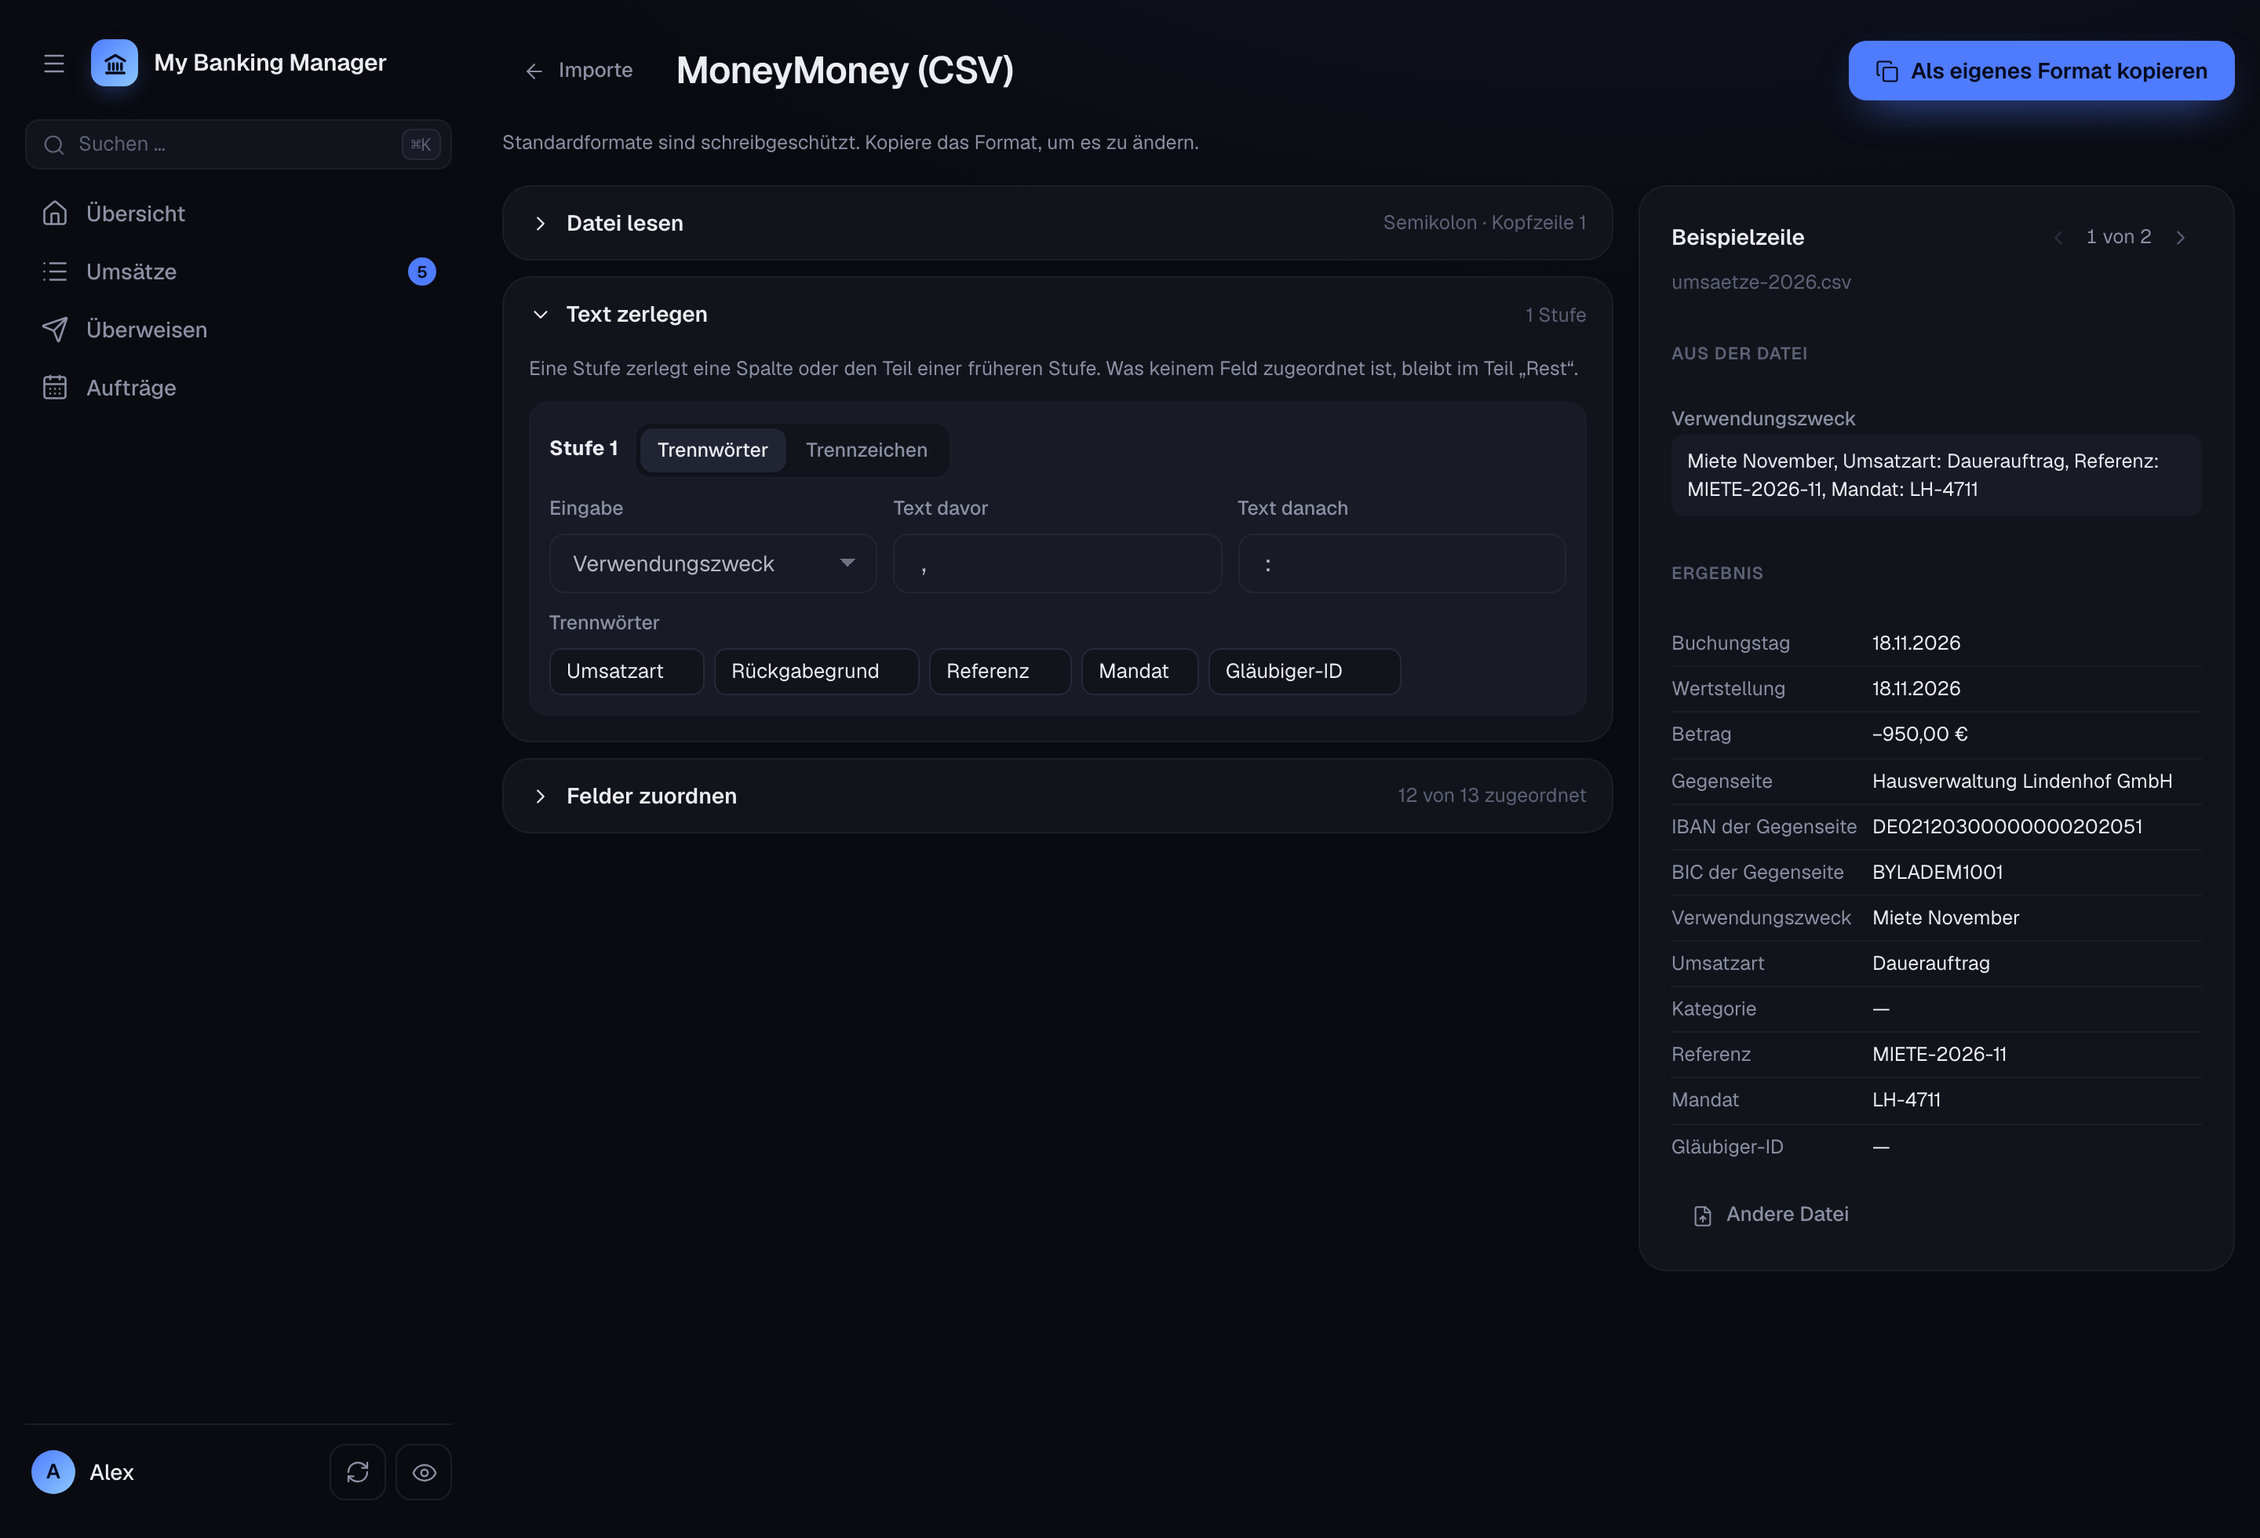
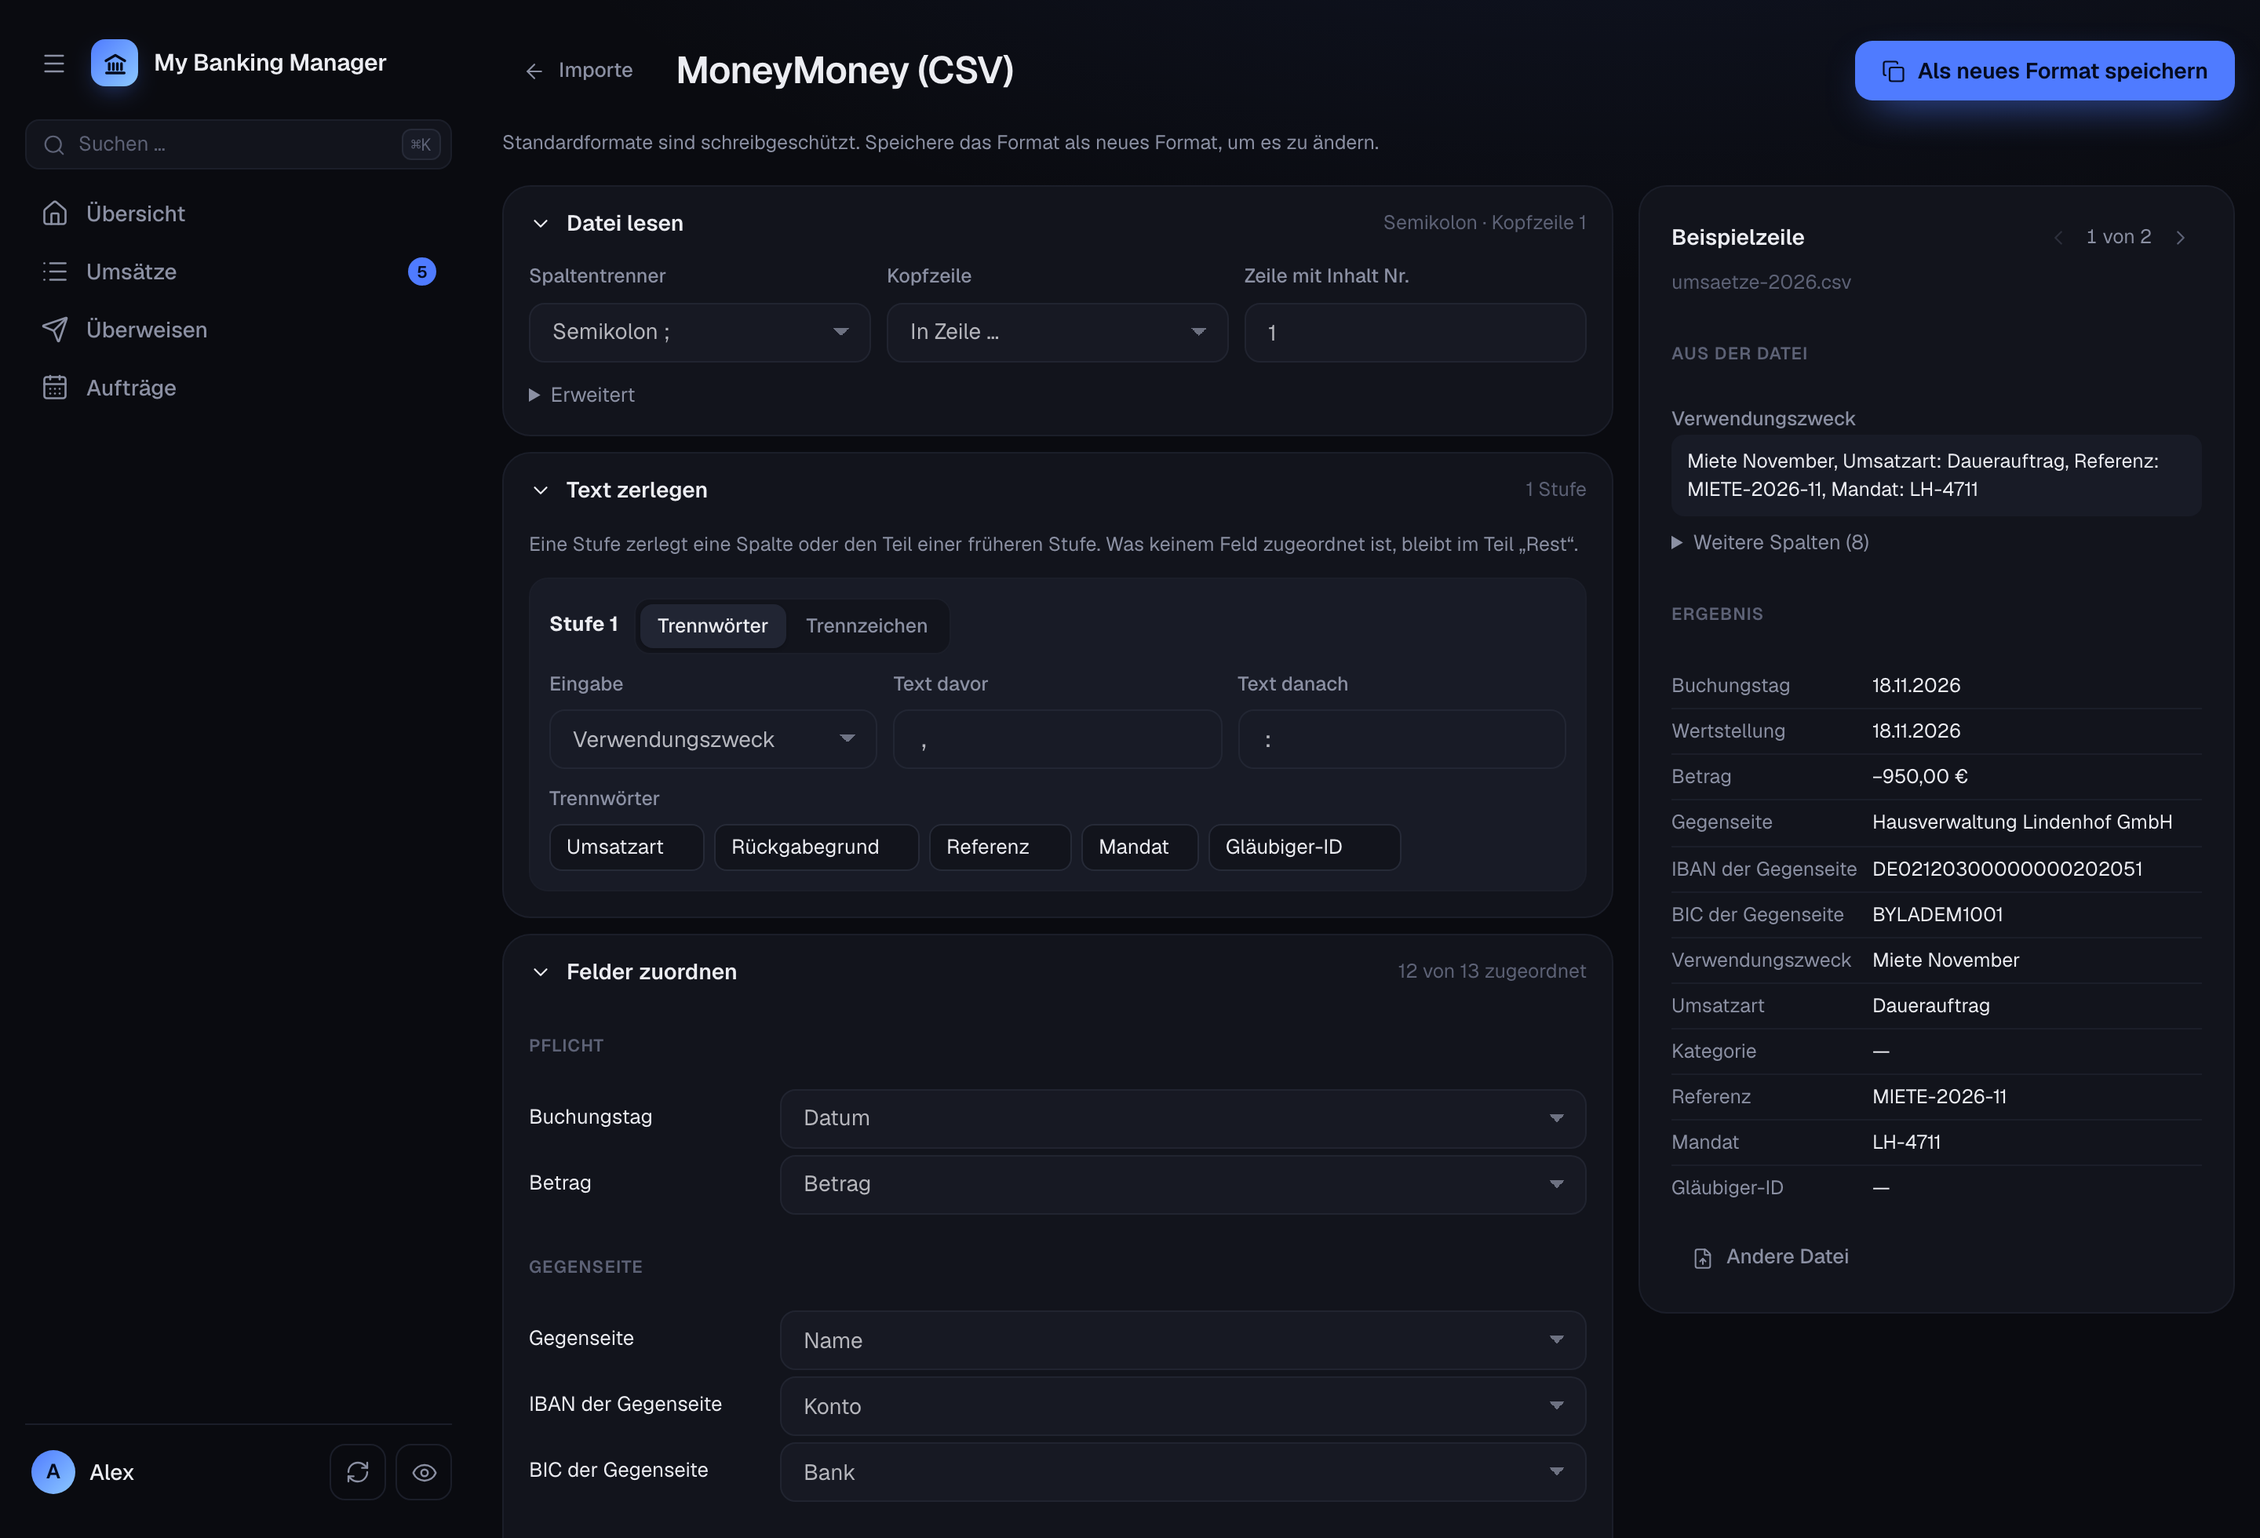
feat(import): Format-Editor mit offenen Karten und allen Spalten
Alle Karten des Editors sind zu Beginn aufgeklappt. Die Beispielzeile
zeigt alle Spalten der Datei, der Wert neben der Zuordnung erscheint nur
noch auf schmalen Bildschirmen. Standardformate übernimmst du mit
„Als neues Format speichern“.

diff --git a/clients/web/src/components/import/FormatWorkbench.tsx b/clients/web/src/components/import/FormatWorkbench.tsx
@@ -286,6 +286,11 @@ function SamplePanel({ def, table, row, onRow, sampleName, onPickSample }: { def
     const read = previewParts(table, def, at);
     const result = count ? mapFormatRows({ ...table, rows: [table.rows[at]!] }, def)[0]! : null;
     const inputs = [...new Map(def.steps.filter((s) => !("step" in s.input)).map((s) => [sourceLabel(s.input), s.input])).entries()];
+    const inputColumns = new Set(inputs.map(([, ref]) => ("column" in ref ? table.header.indexOf(ref.column) : "columnIndex" in ref ? ref.columnIndex : -1)));
+    const cells = table.rows[at] ?? [];
+    const otherColumns = table.header
+        .map((name, index) => ({ index, label: name || `Spalte ${index + 1}`, value: (cells[index] ?? "").trim() }))
+        .filter((c) => !inputColumns.has(c.index));
     const shown = RESULT.filter((c) => def.fields[c.field]?.length);
     return (
         <aside className="panel wb-sample" aria-label="Beispielzeile">
@@ -298,7 +303,7 @@ function SamplePanel({ def, table, row, onRow, sampleName, onPickSample }: { def
                 </span>
             </div>
             {sampleName && <p className="faint small wb-file">{sampleName}</p>}
-            {inputs.length > 0 && (
+            {(inputs.length > 0 || otherColumns.length > 0) && (
                 <div className="wb-block">
                     <h4>Aus der Datei</h4>
                     {inputs.map(([label, ref]) => (
@@ -307,6 +312,19 @@ function SamplePanel({ def, table, row, onRow, sampleName, onPickSample }: { def
                             <p className="wb-raw">{read(ref) || "—"}</p>
                         </div>
                     ))}
+                    {otherColumns.length > 0 && (
+                        <details className="wb-more">
+                            <summary>{inputs.length ? "Weitere Spalten" : "Alle Spalten"} ({otherColumns.length})</summary>
+                            <dl className="wb-result">
+                                {otherColumns.map((c) => (
+                                    <div key={c.index}>
+                                        <dt>{c.label}</dt>
+                                        <dd>{c.value || "—"}</dd>
+                                    </div>
+                                ))}
+                            </dl>
+                        </details>
+                    )}
                 </div>
             )}
             <div className="wb-block">
@@ -346,7 +364,7 @@ export function FormatWorkbench({
     sampleName?: string | undefined;
     onPickSample?: ((f: File) => void) | undefined;
 }) {
-    const [open, setOpen] = useState<Section | null>(def.steps.length ? "steps" : "fields");
+    const [closed, setClosed] = useState<ReadonlySet<Section>>(() => new Set());
     const [row, setRow] = useState(0);
     const [extra, setExtra] = useState<string[]>([]);
     const used = formatColumns(def);
@@ -354,7 +372,12 @@ export function FormatWorkbench({
     const update = (next: ImportFormatDefinition) => onChange(pruneRefs(next));
     const setFile = (patch: Partial<ImportFormatDefinition["file"]>) => update({ ...def, file: { ...def.file, ...patch } });
     const setValues = (patch: Partial<ImportFormatDefinition["values"]>) => update({ ...def, values: { ...def.values, ...patch } });
-    const toggle = (s: Section) => setOpen((o) => (o === s ? null : s));
+    const toggle = (s: Section) =>
+        setClosed((current) => {
+            const next = new Set(current);
+            if (!next.delete(s)) next.add(s);
+            return next;
+        });
     const delimiterChoice = DELIMITERS.some((d) => d.value === def.file.delimiter) ? def.file.delimiter : "custom";
     const headerChoice = typeof def.file.headerLine === "number" ? "line" : def.file.headerLine;
     const example = (field: FormatField): string => {
@@ -366,7 +389,7 @@ export function FormatWorkbench({
     return (
         <div className="wb">
             <div className="wb-main">
-                <SectionCard title="Datei lesen" summary={fileSummary(def)} open={open === "file"} onToggle={() => toggle("file")}>
+                <SectionCard title="Datei lesen" summary={fileSummary(def)} open={!closed.has("file")} onToggle={() => toggle("file")}>
                     <fieldset disabled={readOnly}>
                         <div className="wb-row">
                             <SelectSetting label="Spaltentrenner" value={delimiterChoice} options={[...DELIMITERS, { value: "custom", label: "Eigener Text" }]} onChange={(v) => setFile({ delimiter: v === "custom" ? "~" : v })} />
@@ -409,7 +432,7 @@ export function FormatWorkbench({
                     </fieldset>
                 </SectionCard>
 
-                <SectionCard title="Text zerlegen" summary={stepsSummary(def)} open={open === "steps"} onToggle={() => toggle("steps")}>
+                <SectionCard title="Text zerlegen" summary={stepsSummary(def)} open={!closed.has("steps")} onToggle={() => toggle("steps")}>
                     <fieldset disabled={readOnly}>
                         <p className="hint">Eine Stufe zerlegt eine Spalte oder den Teil einer früheren Stufe. Was keinem Feld zugeordnet ist, bleibt im Teil „Rest“.</p>
                         {def.steps.map((step, i) => (
@@ -431,7 +454,7 @@ export function FormatWorkbench({
                     </fieldset>
                 </SectionCard>
 
-                <SectionCard title="Felder zuordnen" summary={fieldsSummary(def)} open={open === "fields"} onToggle={() => toggle("fields")}>
+                <SectionCard title="Felder zuordnen" summary={fieldsSummary(def)} open={!closed.has("fields")} onToggle={() => toggle("fields")}>
                     <fieldset disabled={readOnly}>
                         {FIELD_GROUPS.map((group) => (
                             <div className="wb-group" key={group.label}>

diff --git a/clients/web/src/styles/app.css b/clients/web/src/styles/app.css
@@ -976,8 +976,8 @@ button.ctx-ic:hover, button.ctx-ic:focus-visible { box-shadow: inset 0 0 0 1.5px
 .wb-chip.add { border-style: dashed; color: var(--faint); }
 .wb-group { display: grid; gap: 4px; }
 .wb-group h4, .wb-block h4 { color: var(--faint); font-size: 11px; font-weight: 600; letter-spacing: 0.05em; text-transform: uppercase; }
-.wb-field { display: grid; grid-template-columns: 150px minmax(0, 1fr) minmax(0, 1fr); align-items: center; gap: 10px; font-size: 13px; }
-.wb-field small { overflow: hidden; color: var(--muted); font-size: 12px; text-overflow: ellipsis; white-space: nowrap; }
+.wb-field { display: grid; grid-template-columns: 150px minmax(0, 1fr); align-items: center; gap: 10px; font-size: 13px; }
+.wb-field small { display: none; overflow: hidden; color: var(--muted); font-size: 12px; text-overflow: ellipsis; white-space: nowrap; }
 .wb-field.bad select { border-color: var(--neg); }
 .wb-sample { position: sticky; top: 16px; display: grid; gap: 14px; max-height: calc(100dvh - 32px); overflow-y: auto; }
 .wb-sample .panel-head { align-items: center; margin-bottom: 0; }
@@ -990,7 +990,7 @@ button.ctx-ic:hover, button.ctx-ic:focus-visible { box-shadow: inset 0 0 0 1.5px
 .wb-result { display: grid; margin: 0; }
 .wb-result > div { display: grid; grid-template-columns: 120px minmax(0, 1fr); gap: 8px; padding: 5px 0; border-bottom: 1px solid var(--line-soft); font-size: 12.5px; }
 .wb-result > div:last-child { border-bottom: 0; }
-.wb-result dt { color: var(--muted); }
+.wb-result dt { color: var(--muted); overflow-wrap: anywhere; }
 .wb-result dd { margin: 0; overflow-wrap: anywhere; }
 @media (max-width: 860px) {
     .imp-bar { bottom: calc(env(safe-area-inset-bottom, 0px) + 66px); }
@@ -998,6 +998,9 @@ button.ctx-ic:hover, button.ctx-ic:focus-visible { box-shadow: inset 0 0 0 1.5px
 @media (max-width: 1020px) {
     .wb { grid-template-columns: minmax(0, 1fr); }
     .wb-sample { position: static; max-height: none; }
+    /* The sample sits below the cards here, so each field shows its value itself */
+    .wb-field { grid-template-columns: 150px minmax(0, 1fr) minmax(0, 1fr); }
+    .wb-field small { display: block; }
 }
 .fmt-head { display: flex; align-items: center; flex-wrap: wrap; gap: 10px 14px; }
 .fmt-head h1 { font-size: 24px; font-weight: 600; letter-spacing: -0.02em; }

diff --git a/clients/web/src/pages/ImportFormat.tsx b/clients/web/src/pages/ImportFormat.tsx
@@ -56,7 +56,7 @@ function FormatEditor({ format, formats }: { format: ImportFormat | null; format
     };
 
     const copy = async () => {
-        const saved = await action.run(() => call(routes.createImportFormat, { body: { name: copyName(format!.name, formats.map((f) => f.name)), definition: format!.definition } }), { topics: ["importFormats"], ok: "Format kopiert" });
+        const saved = await action.run(() => call(routes.createImportFormat, { body: { name: copyName(format!.name, formats.map((f) => f.name)), definition: format!.definition } }), { topics: ["importFormats"], ok: "Als neues Format gespeichert" });
         if (saved) void navigate({ to: "/import-format", search: { key: saved.key } });
     };
 
@@ -91,7 +91,7 @@ function FormatEditor({ format, formats }: { format: ImportFormat | null; format
                 )}
                 <span className="fmt-head-actions">
                     {readOnly ? (
-                        <Button className="btn-primary" icon={Copy} busy={action.pending} onClick={() => void copy()}>Als eigenes Format kopieren</Button>
+                        <Button className="btn-primary" icon={Copy} busy={action.pending} onClick={() => void copy()}>Als neues Format speichern</Button>
                     ) : (
                         <>
                             <button type="button" className="btn btn-ghost" disabled={!dirty} onClick={discard}>Verwerfen</button>
@@ -100,7 +100,7 @@ function FormatEditor({ format, formats }: { format: ImportFormat | null; format
                     )}
                 </span>
             </div>
-            {readOnly && <Hint>Standardformate sind schreibgeschützt. Kopiere das Format, um es zu ändern.</Hint>}
+            {readOnly && <Hint>Standardformate sind schreibgeschützt. Speichere das Format als neues Format, um es zu ändern.</Hint>}
             {(problem || error) && <Hint tone="bad">{error || problem}</Hint>}
             <FormatWorkbench
                 def={def}

diff --git a/docs/guide/import.md b/docs/guide/import.md
@@ -36,7 +36,7 @@ aufbereiten. So kannst du dieselbe Datei auch zweimal importieren, ohne etwas do
 
 Ein Format beschreibt, wie MBM eine Datei liest und welcher Wert in welches Feld kommt. Mitgeliefert
 sind die **Standardformate** „MoneyMoney (CSV)“ und „Sparkasse CSV-CAMT“. Sie lassen sich nicht
-ändern, du kannst sie aber als eigenes Format kopieren. Passen mehrere Formate zur Kopfzeile einer
+ändern, du kannst sie aber als neues Format speichern. Passen mehrere Formate zur Kopfzeile einer
 Datei, haben deine eigenen Vorrang.
 
 Formate bearbeitest du an zwei Stellen mit demselben Editor:
@@ -47,18 +47,19 @@ Formate bearbeitest du an zwei Stellen mit demselben Editor:
 - **Beim Import:** Im Schritt „Format“ passt du das Format für diese Datei an. Die Änderung gilt für
   diesen Import, bis du sie speicherst.
 
-Der Editor hat drei Bereiche, von denen immer einer geöffnet ist:
+Der Editor hat drei Bereiche, die zu Beginn alle aufgeklappt sind:
 
 - **Datei lesen:** Spaltentrenner (auch aus mehreren Zeichen) und Kopfzeile. Unter **Erweitert**
   stehen Kodierung, Anführungszeichen, Datumsform, Dezimalzeichen, der Trenner von Kategoriepfaden
   und die Wörter für „vorgemerkt“.
 - **Text zerlegen:** Bis zu fünf Stufen, die aufeinander aufbauen. Eine Stufe liest eine Spalte oder
   einen Teil einer früheren Stufe.
-- **Felder zuordnen:** Welche Spalte oder welcher Teil einer Stufe in welches Feld kommt, mit dem
-  Wert aus der Beispielzeile.
+- **Felder zuordnen:** Welche Spalte oder welcher Teil einer Stufe in welches Feld kommt. Auf
+  schmalen Bildschirmen steht der Wert aus der Beispielzeile direkt daneben.
 
-Daneben zeigt die **Beispielzeile**, was das Format aus einer Zeile der Datei macht. Mit den Pfeilen
-blätterst du durch die Datei.
+Daneben zeigt die **Beispielzeile**, was das Format aus einer Zeile der Datei macht. Unter **Aus der
+Datei** stehen die unveränderten Werte: die zerlegten Spalten direkt, alle anderen zum Aufklappen.
+Unter **Ergebnis** steht, was MBM daraus importiert. Mit den Pfeilen blätterst du durch die Datei.
 
 ![Format-Editor: Einrichtung links, Beispielzeile rechts](../assets/screenshots/importformat-bearbeiten-dark.png)
 

diff --git a/.release/next.md b/.release/next.md
@@ -16,6 +16,9 @@ Nothing inside an HTML comment is published.
   fünf Stufen fest, ordnest die Teile den Feldern zu und speicherst das Format. Die Standardformate
   „MoneyMoney (CSV)“ und „Sparkasse CSV-CAMT“ sind dabei und werden anhand der Kopfzeile erkannt.
   Formate bearbeitest du auch direkt unter Einstellungen → Importe, mit oder ohne Beispieldatei.
+  Alle Bereiche des Editors sind dabei zu Beginn aufgeklappt, und ein Standardformat übernimmst du
+  mit „Als neues Format speichern“. Die Beispielzeile zeigt alle Spalten der Datei und daneben das
+  Ergebnis des Imports.
 - Der Import ist jetzt eine eigene, übersichtliche Seite mit den Schritten Datei, Format und Prüfen.
   Bei einem erkannten Format geht es direkt zur Prüfung, die zuerst nur zeigt, was sich ändert.
 - Umsätze zeigen jetzt auch Referenz, Mandat, Gläubiger-ID und BIC, aus dem Bankabruf wie aus dem
